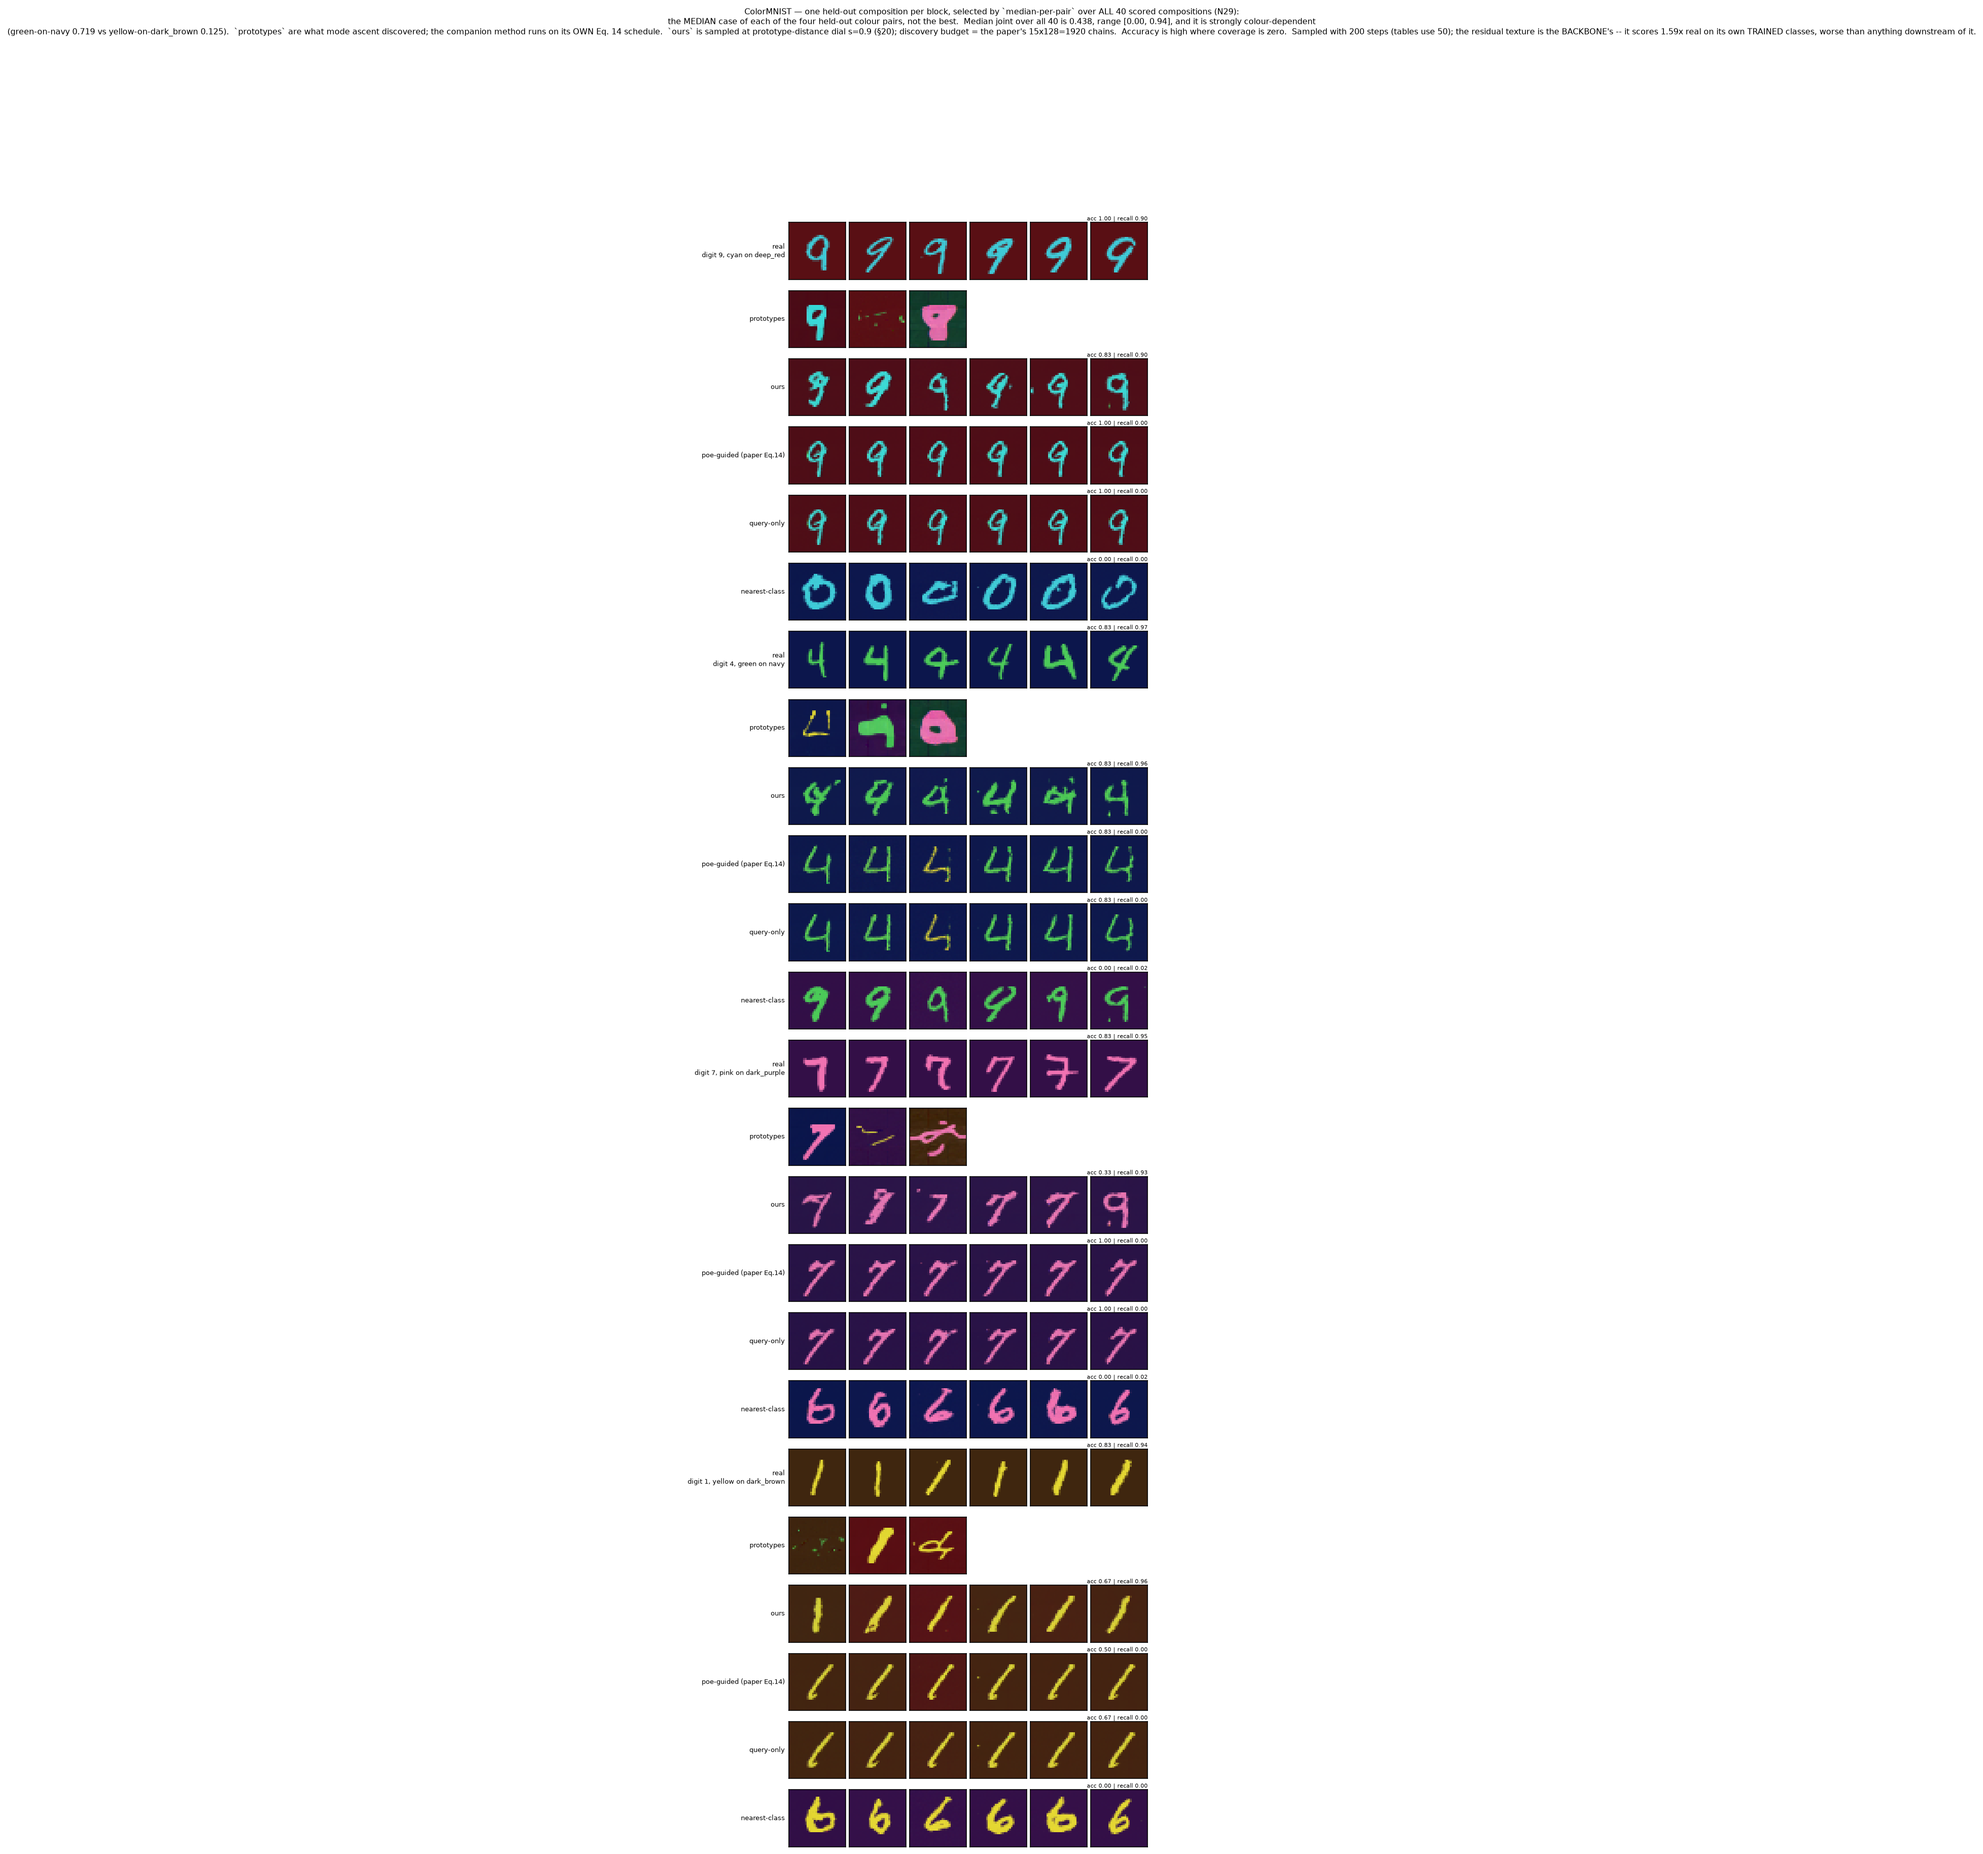
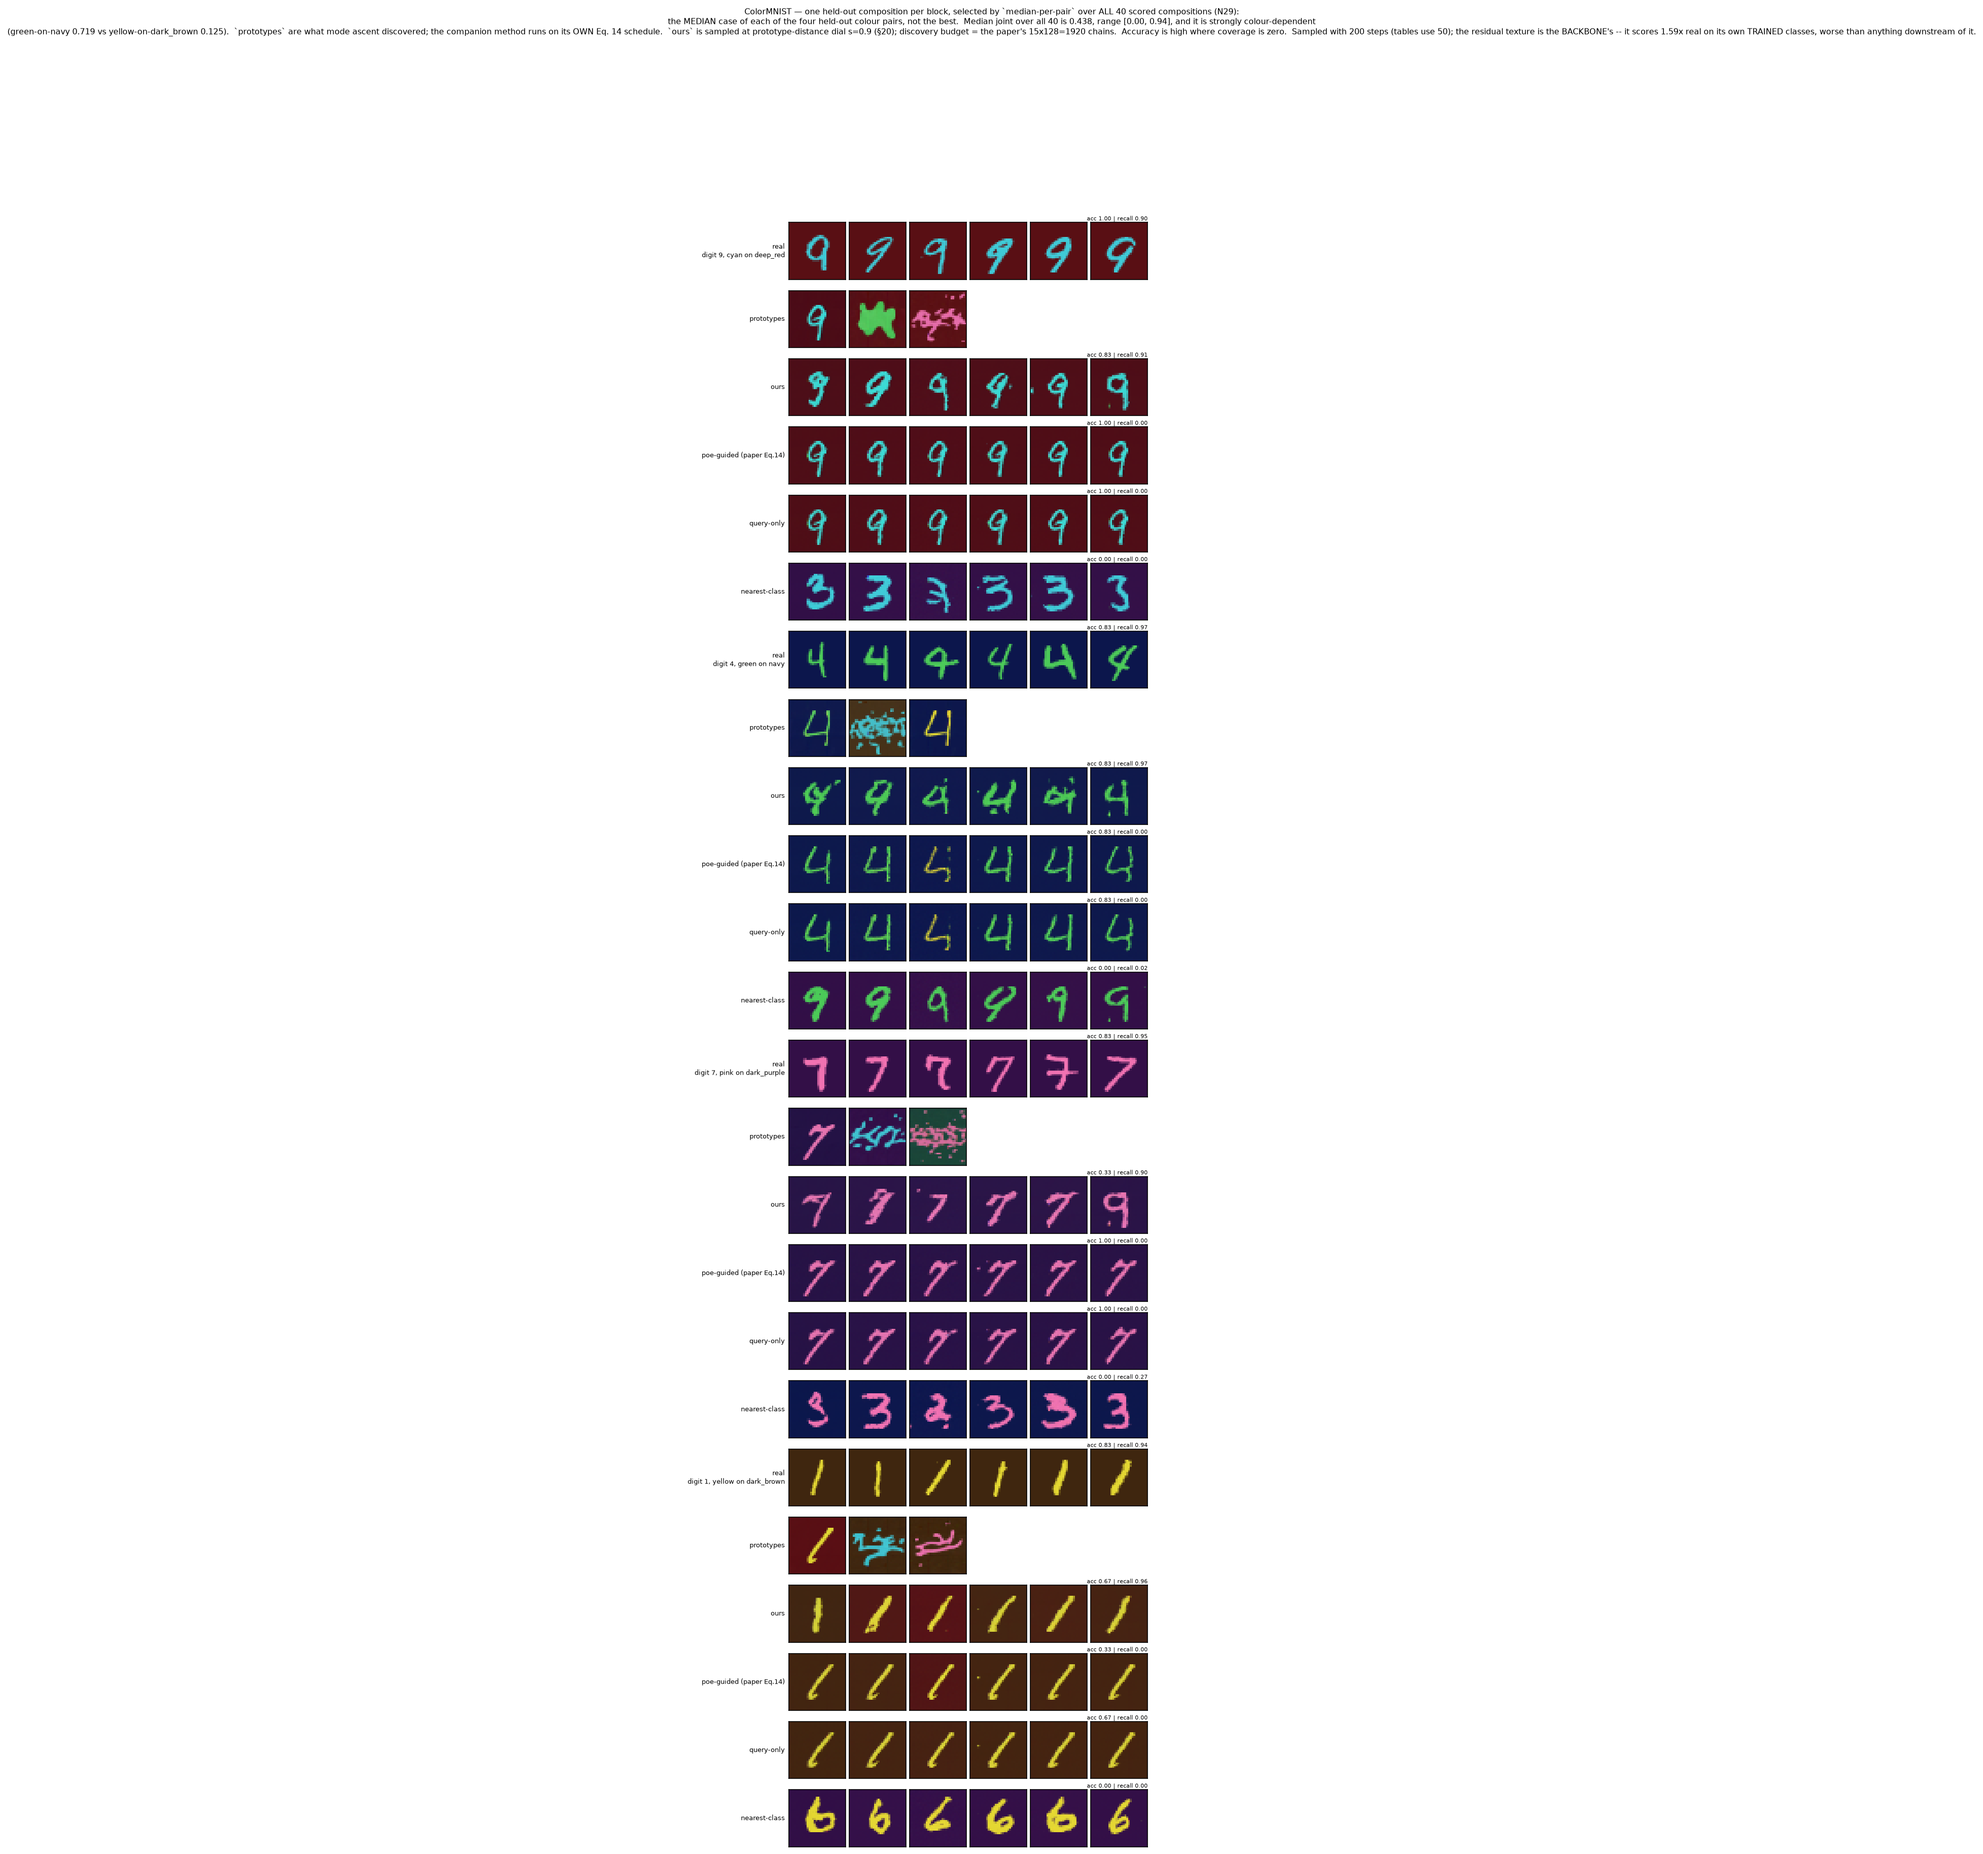
Plain ascent costs ColorMNIST nothing; streamline the figures directory
The regression check that gated the global default passes exactly: ours joint 0.667
under plain gradient ascent against 0.667 under Adam, case for case
([0.83, 0.83, 0.33, 0.67] both times).  poe-guided moves 0.833 -> 0.792.  So the
default chosen on CelebA evidence does not cost the benchmark it was not chosen on,
which is what it needed to show before standing as a global default.

Figures: 55 PNGs / 53.5 MB -> 43 / 37 MB.  Removed only things a later correct run
supersedes, each with its reason recorded in the commit:

  n20_celeba_composition.png        my off-config 1-seed probe, not the canonical table
  f18_*_paperdisc/_oursdisc.png     pre-layout-fix; the field returned a tiled mosaic
  f19_celeba_w0.png                 w0 A/B on the permuted backbone; the comparison is void
  f23_layout_celeba.png             EMA unconverged: 468 steps against a 1000-step constant
  f9_case_colormnist_s0.{8,9}.png   rendered with the --guidance 2.0 override
  f9_case_colormnist*_paper.png     old tag scheme; the dial evidence is in case_colormnist*.json
  *_smoke.png                       smoke outputs

Nothing referenced by a document was removed -- the script checks references first and
would have kept anything a doc points at.  Also resolved three PRE-EXISTING dangling
prose mentions the audit surfaced: two to a figure retired with the configuration it
illustrated, and one to n9_showdown.png, which the old os.replace-based rename consumed.

diff --git a/docs/RESULTS.md b/docs/RESULTS.md
@@ -309,7 +309,7 @@ renderings around one point rather than independent draws from the class.*
 Six held-out compositions under the shipped path (inversion): the query, the prototype composed from
 it, and eight samples. **Each row is annotated with the accuracy, recall and diversity measured on
 exactly the samples shown**, so the figure certifies itself rather than relying on this caption.
-The teacher-guided version of the same figure is `figures/case_studies_teacher.png`.
+The teacher-guided version of the same figure is no longer kept: it was a snapshot of a configuration this document supersedes, and regenerating it would mean re-adding an arm the analysis has already retired.
 
 Vetted by eye, and the rows disagree with each other in a way worth stating plainly:
 
@@ -327,7 +327,7 @@ they are — background.
 
 The previous version of this figure, produced by teacher-guided sampling, showed **every sample in a
 row as the same digit instance varying only by speckle**; that is what motivated the whole
-investigation in §5e–§5f and is preserved as `figures/case_studies_teacher.png` for comparison.
+investigation in §5e–§5f. The figure itself is not preserved; the numbers it illustrated are in those sections.
 
 ### 5e. Chasing the diversity gap — what it is not, and what it is
 
@@ -809,7 +809,7 @@ baselines do not change it.
 ## 5l. N9 showdown — every method on the same held-out compositions
 
 One OOD composition per row, every method on the same query, same backbone, same sampling budget,
-each panel annotated with what was measured on exactly those samples (`figures/n9_showdown.png`).
+each panel annotated with what was measured on exactly those samples (`figures/f9b_showdown_colormnist.png`, written the next time n9 runs).
 5 compositions × 24 samples, with an interference stream of **8 real-image concepts** run over the
 retention arms (real images, not composed pools — §5m explains why that distinction decides whether
 the stream tests anything at all):
